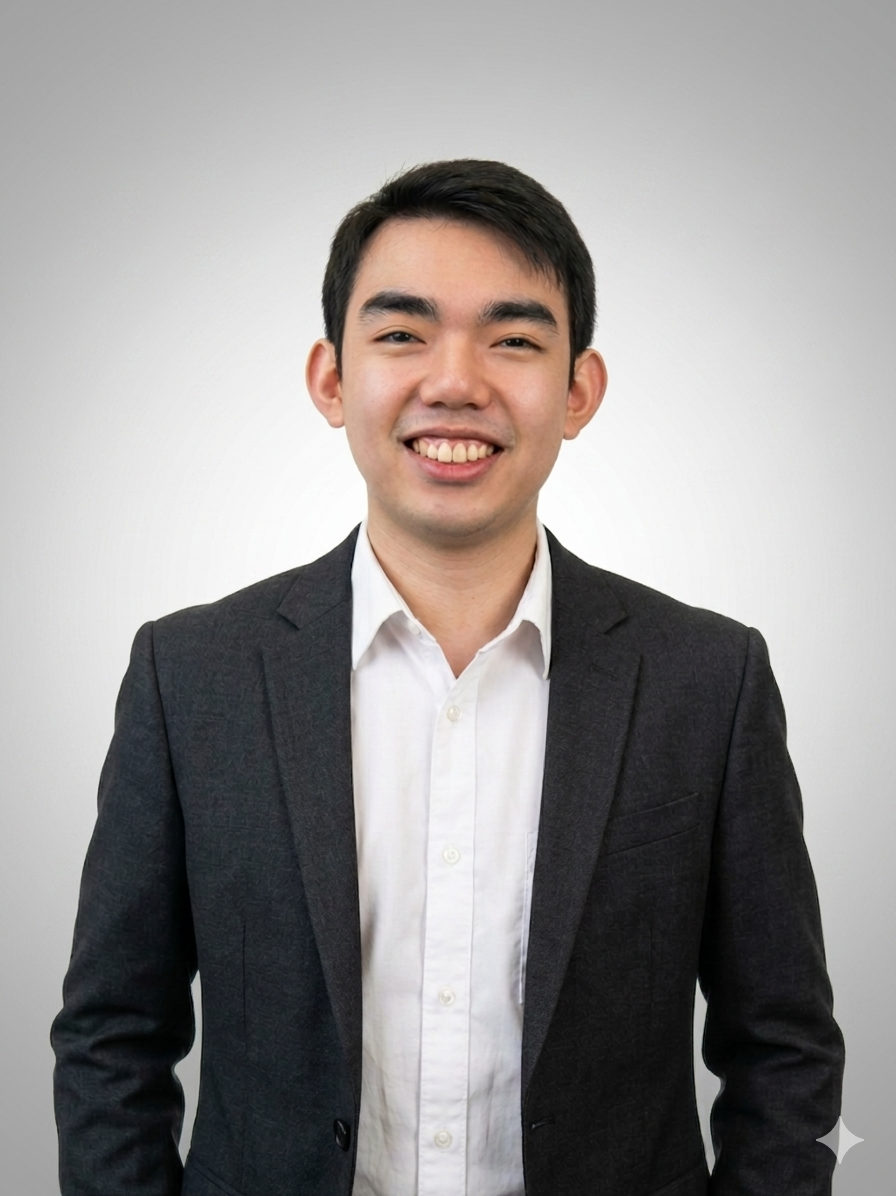
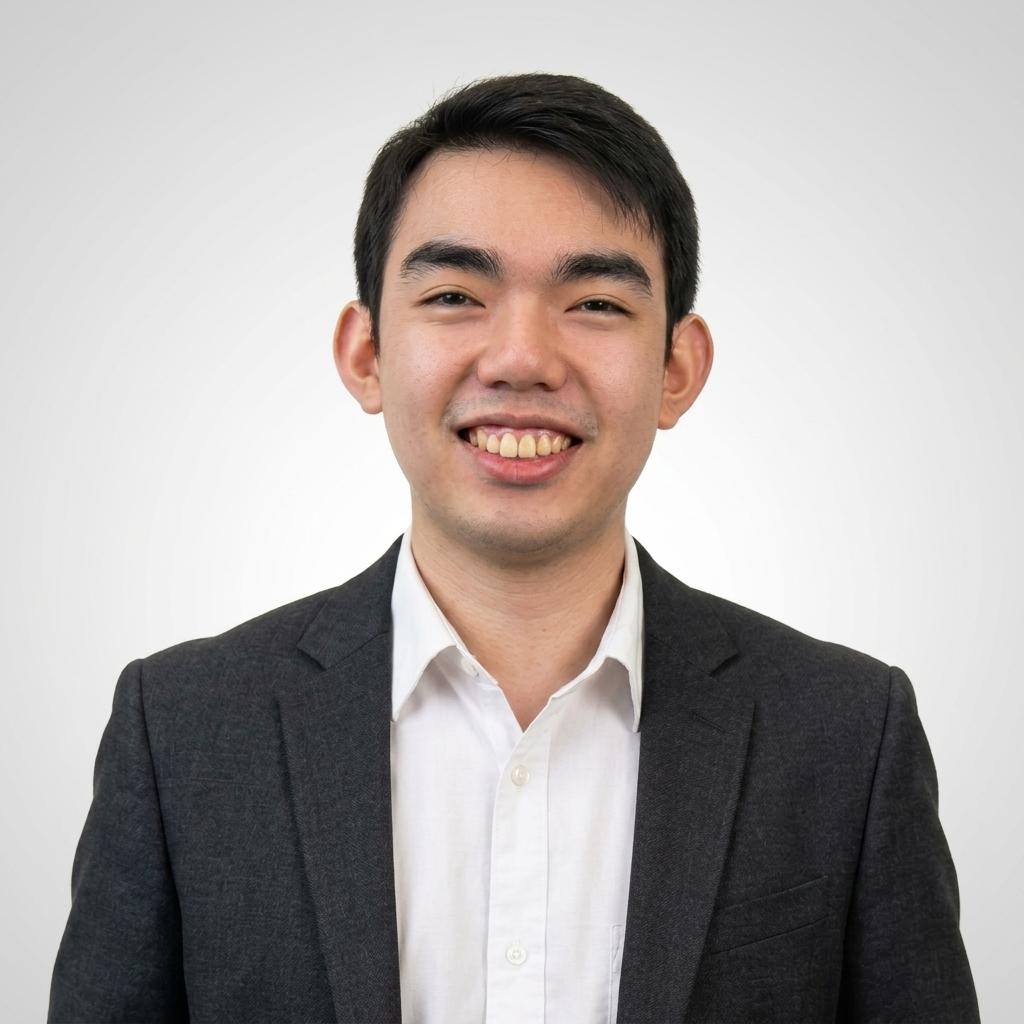
Deploy upscaled original photo with full-bleed hero layout

diff --git a/assets/css/styles.css b/assets/css/styles.css
@@ -203,30 +203,27 @@
 
     .hero-right {
       position: relative;
-      background: var(--beige);
-      display: flex;
-      align-items: center;
-      justify-content: center;
-      padding: clamp(20px, 4vw, 48px);
+      background: var(--beige-mid);
       overflow: hidden;
     }
 
     .hero-right img {
       width: 100%;
       height: 100%;
-      max-width: 380px;
-      max-height: 480px;
       object-fit: cover;
       object-position: center top;
       display: block;
-      border: 1px solid var(--beige-dark);
-      box-shadow: 0 15px 30px rgba(0, 0, 0, 0.05);
       filter: none;
     }
 
-    /* Gradient fade is disabled for framed style */
+    /* Gradient fade on left edge of photo */
     .hero-right::before {
-      display: none;
+      content: '';
+      position: absolute;
+      inset: 0;
+      background: linear-gradient(to right, var(--cream) 0%, transparent 18%);
+      z-index: 1;
+      pointer-events: none;
     }
 
     /* Info card overlay at bottom of photo */